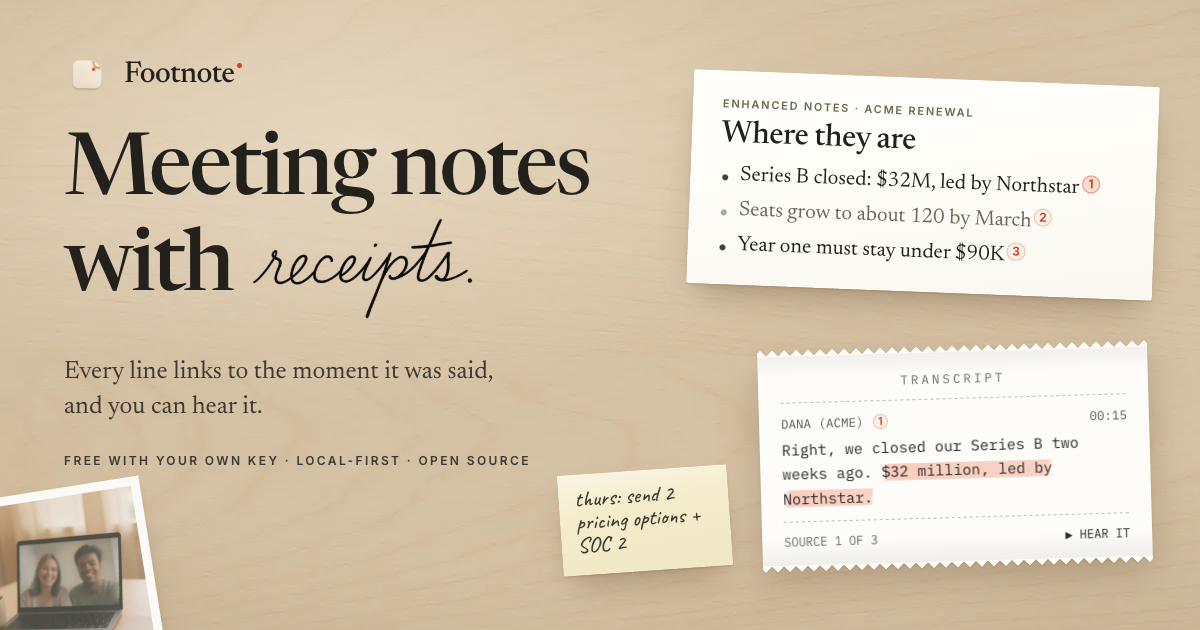
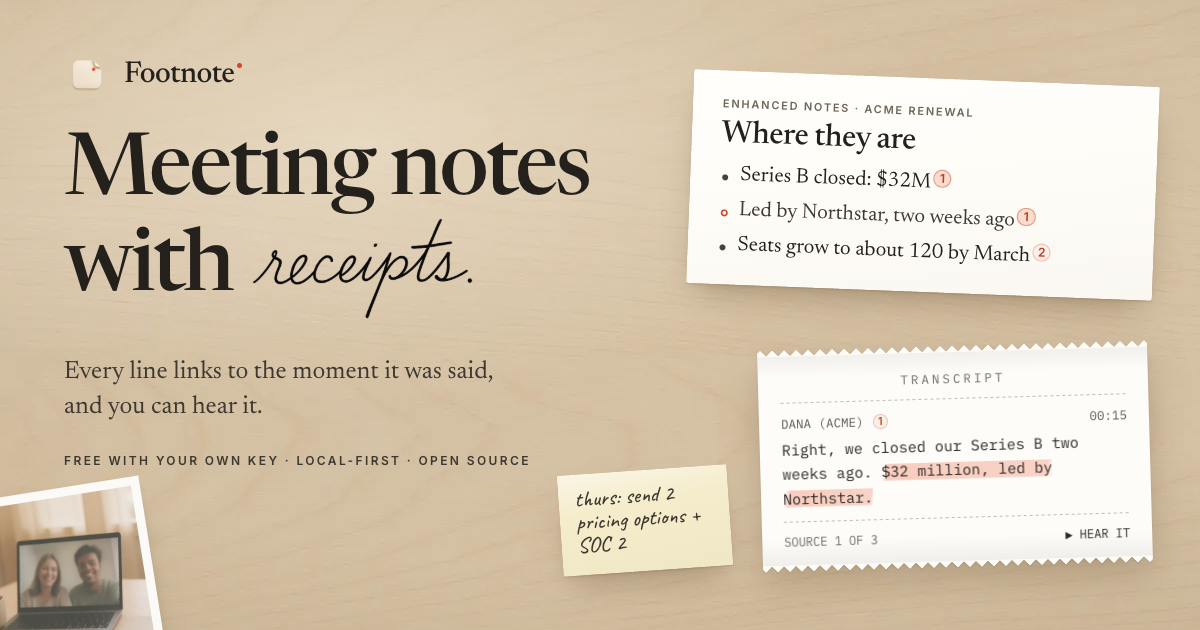
Lines Footnote added read in full ink with a vermilion ring for a bullet (the red of the receipts behind them) instead of fading to gray; the same legend in the app, shared notes, the landing cards and the link preview, which now shows the Series B line as yours and Northstar as added

Changed region(s): [[0.6167, 0.3016, 0.8942, 0.4222], [0.7708, 0.2714, 0.925, 0.3016]]

diff --git a/src/components/landing/WriteBack.tsx b/src/components/landing/WriteBack.tsx
@@ -22,7 +22,7 @@ type Phase = 0 | 1 | 2 | 3 | 4 | 5 | 6;
 
 /**
  * Shows a receipt being earned instead of explaining it: a rough note is typed, Enhance
- * is pressed, a gray line inks onto the page, its footnote stamps in, and a receipt
+ * is pressed, the lines ink onto the page (what the call added marked with a red ring), its footnote stamps in, and a receipt
  * slides out with the words highlighted. Plays when scrolled into view; replays on hover.
  */
 export function WriteBack() {
@@ -134,13 +134,13 @@ export function WriteBack() {
           <div className="paper paper-cream sheet-shadow relative z-[2] rotate-[1deg] rounded-[2px] px-7 pb-7 pt-6 sm:px-9">
             <p className="smallcaps text-muted">Enhanced notes</p>
             <h3 className="mt-2 font-serif text-[25px] font-medium leading-tight tracking-[-0.01em]">Where they are</h3>
-            {/* Every note line comes back written up; what the call adds is its own gray line. */}
+            {/* Every note line comes back written up; what the call adds is its own line, ringed in red. */}
             <ul className="mt-3 space-y-2 font-serif text-[18.5px] leading-snug">
               {LINES.map((l, i) => (
-                <li key={i} className={cx("flex min-h-[1.4em] gap-2.5", l.origin === "you" ? "text-ink" : "text-muted")}>
+                <li key={i} className={cx("flex min-h-[1.4em] gap-2.5", l.origin === "you" ? "text-ink" : "text-ink-2")}>
                   {phase >= 3 ? (
                     <>
-                      <span className={cx("mt-[0.5em] h-[6px] w-[6px] shrink-0 rounded-full", l.origin === "you" ? "bg-ink" : "bg-faint")} />
+                      <span className={cx("mt-[0.5em]", l.origin === "you" ? "dot-you" : "dot-ai")} />
                       <span key={`ink-${run}`} className="ink-in" style={{ ["--ink-delay" as string]: `${i * 260}ms` }}>
                         {l.text.slice(0, l.text.lastIndexOf(" ") + 1)}
                         <span className="whitespace-nowrap">
@@ -166,10 +166,10 @@ export function WriteBack() {
             </ul>
             <p className="mt-4 flex flex-wrap items-center gap-x-4 gap-y-1 font-sans text-[11.5px] text-muted">
               <span className="inline-flex items-center gap-1.5">
-                <span className="h-[5px] w-[5px] rounded-full bg-ink/80" /> from your notes
+                <span className="dot-you" /> from your notes
               </span>
               <span className="inline-flex items-center gap-1.5">
-                <span className="h-[5px] w-[5px] rounded-full bg-faint" /> added from the call
+                <span className="dot-ai" /> added from the call
               </span>
             </p>
           </div>

diff --git a/src/components/landing/HeroCards.tsx b/src/components/landing/HeroCards.tsx
@@ -119,10 +119,10 @@ function NoteCard({ active, onPick, className }: { active: number; onPick: (i: n
               aria-pressed={active === i}
               className={cx(
                 "group/b -mx-2 flex w-[calc(100%+16px)] items-baseline gap-2.5 rounded-[3px] px-2 py-0.5 text-left font-serif text-[17.5px] leading-snug transition-colors hover:bg-accent-softer/70",
-                x.origin === "you" ? "text-ink" : "text-muted",
+                x.origin === "you" ? "text-ink" : "text-ink-2",
               )}
             >
-              <span className={cx("mt-[0.5em] h-[6px] w-[6px] shrink-0 rounded-full", x.origin === "you" ? "bg-ink/80" : "bg-faint")} />
+              <span className={cx("mt-[0.5em]", x.origin === "you" ? "dot-you" : "dot-ai")} />
               <span>
                 {x.text.slice(0, x.text.lastIndexOf(" ") + 1)}
                 <span className="whitespace-nowrap">
@@ -138,10 +138,10 @@ function NoteCard({ active, onPick, className }: { active: number; onPick: (i: n
       </ul>
       <p className="mt-4 flex flex-wrap items-center gap-x-4 gap-y-1 font-sans text-[11.5px] text-muted">
         <span className="inline-flex items-center gap-1.5">
-          <span className="h-[5px] w-[5px] rounded-full bg-ink/80" /> from your notes
+          <span className="dot-you" /> from your notes
         </span>
         <span className="inline-flex items-center gap-1.5">
-          <span className="h-[5px] w-[5px] rounded-full bg-faint" /> added by Footnote
+          <span className="dot-ai" /> added from the call
         </span>
         <span className="inline-flex items-center gap-1">
           <span className="fn-mark !ml-0 !cursor-default !text-[9px]" aria-hidden>

diff --git a/src/components/share/SharedNote.tsx b/src/components/share/SharedNote.tsx
@@ -125,10 +125,10 @@ export function SharedNote() {
                   <h2 className="font-serif text-[29px] font-medium leading-tight tracking-[-0.015em] sm:text-[32px]">Enhanced notes</h2>
                   <p className="mt-1.5 flex flex-wrap items-center gap-x-4 text-[14.5px] text-muted">
                     <span className="inline-flex items-center gap-1.5">
-                      <span className="h-[6px] w-[6px] rounded-full bg-ink" /> Written by the note-taker
+                      <span className="dot-you" /> Written by the note-taker
                     </span>
                     <span className="inline-flex items-center gap-1.5">
-                      <span className="h-[6px] w-[6px] rounded-full bg-faint" /> Added from the transcript
+                      <span className="dot-ai" /> Added from the transcript
                       <span className="fn-mark !cursor-default" aria-hidden>1</span>
                     </span>
                     {audible && <span className="hidden italic sm:inline">Click a number to hear the moment.</span>}

diff --git a/src/components/receipts/EnhancedView.tsx b/src/components/receipts/EnhancedView.tsx
@@ -115,7 +115,7 @@ export function EnhancedView({
               const highlighted = receipts.highlightedBullets.has(key);
               const quoteOpen = openQuote === key;
               const [head, last] = splitLastWord(b.text);
-              const tone = b.origin === "you" ? "text-ink" : "text-muted";
+              const tone = b.origin === "you" ? "text-ink" : "text-ink-2";
               return (
                 <li
                   key={bi}
@@ -130,7 +130,7 @@ export function EnhancedView({
                 >
                   <span
                     aria-hidden
-                    className={cx("absolute left-2.5 top-[0.72em] h-[6px] w-[6px] rounded-full", b.origin === "you" ? "bg-ink" : "bg-faint")}
+                    className={cx("absolute left-2.5 top-[0.72em]", b.origin === "you" ? "dot-you" : "dot-ai -ml-px")}
                   />
                   <span className={tone}>{head}</span>
                   {/* The last word and its footnote numbers never wrap apart. */}

diff --git a/src/components/workspace/MeetingPane.tsx b/src/components/workspace/MeetingPane.tsx
@@ -880,10 +880,10 @@ export function MeetingPane({
                 {(numbers.size > 0 || streaming) && (
                   <p className="mt-1.5 flex flex-wrap items-center gap-x-4 gap-y-1 text-[14.5px] text-muted">
                     <span className="inline-flex items-center gap-1.5">
-                      <span className="h-[6px] w-[6px] rounded-full bg-ink" /> Your notes
+                      <span className="dot-you" /> Your notes
                     </span>
                     <span className="inline-flex items-center gap-1.5">
-                      <span className="h-[6px] w-[6px] rounded-full bg-faint" /> Added from the transcript
+                      <span className="dot-ai" /> Added from the transcript
                       <span className="fn-mark !cursor-default" aria-hidden>1</span>
                     </span>
                     <span className="hover-only hidden italic sm:inline">

diff --git a/src/app/globals.css b/src/app/globals.css
@@ -1047,3 +1047,22 @@ html[data-turn="sheet"]::view-transition-new(fn-sheet) {
     filter: brightness(0.9);
   }
 }
+
+/* Who wrote a line: a solid ink dot for yours, a vermilion ring for what Footnote added
+   from the call (the same red as the receipts that back it). Both read in full ink. */
+.dot-you,
+.dot-ai {
+  display: inline-block;
+  flex-shrink: 0;
+  width: 6px;
+  height: 6px;
+  border-radius: 9999px;
+}
+.dot-you {
+  background: var(--color-ink);
+}
+.dot-ai {
+  width: 7px;
+  height: 7px;
+  box-shadow: inset 0 0 0 1.6px var(--color-accent);
+}

diff --git a/src/lib/export.ts b/src/lib/export.ts
@@ -44,7 +44,7 @@ export function toMarkdown(m: ExportableMeeting): string {
         .sort((a, z) => (numbers.get(a) ?? 0) - (numbers.get(z) ?? 0))
         .map((c) => `[^${numbers.get(c)}]`)
         .join("");
-      // AI additions are set in italics, the way the app sets them in gray.
+      // AI additions are set in italics, the way the app marks them with a red ring.
       lines.push(`- ${b.origin === "ai" ? `_${b.text}_` : b.text}${marks}`);
     }
     lines.push("");
